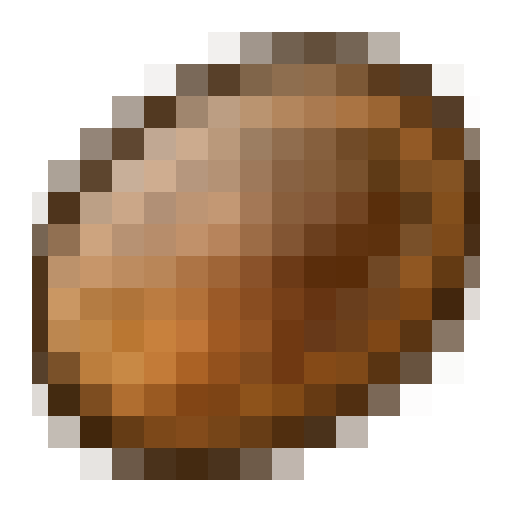
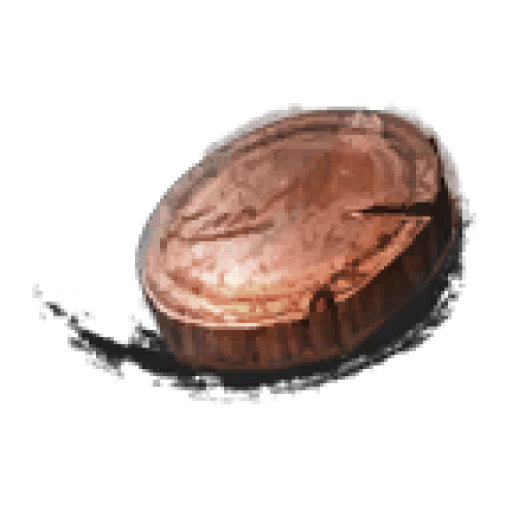
update coins with higher res image

diff --git a/app/src/main/java/xhsun/gw2app/steve/backend/util/wallet/ListAdapter.java b/app/src/main/java/xhsun/gw2app/steve/backend/util/wallet/ListAdapter.java
@@ -2,6 +2,7 @@ package xhsun.gw2app.steve.backend.util.wallet;
 
 import android.content.Context;
 import android.support.annotation.NonNull;
+import android.util.TypedValue;
 import android.view.LayoutInflater;
 import android.view.View;
 import android.view.ViewGroup;
@@ -101,11 +102,15 @@ public class ListAdapter extends ExpandableRecyclerAdapter<TotalWallet, Individu
 
 		private void parseCoins(TotalWallet wallet) {
 			long value = wallet.getValue();
+
+			image.setLayoutParams(getCopperLayout(6, 12, currency.getId(), view));
 			image.setImageResource(R.mipmap.ic_coin_copper);
+
 			currency.setText(String.valueOf(value % 100));
 			value = value / 100;
 			this.silver.setText(String.valueOf(value % 100));
 			this.gold.setText(String.valueOf(value / 100));
+
 			goldHolder.setVisibility(View.VISIBLE);
 			silverHolder.setVisibility(View.VISIBLE);
 		}
@@ -154,13 +159,28 @@ public class ListAdapter extends ExpandableRecyclerAdapter<TotalWallet, Individu
 
 		private void parseCoins(IndividualWallet wallet) {
 			long value = wallet.getValue();
+
+			image.setLayoutParams(getCopperLayout(7, 10, currency.getId(), view));
 			image.setImageResource(R.mipmap.ic_coin_copper);
+
 			currency.setText(String.valueOf(value % 100));
 			value = value / 100;
 			this.silver.setText(String.valueOf(value % 100));
 			this.gold.setText(String.valueOf(value / 100));
+
 			goldHolder.setVisibility(View.VISIBLE);
 			silverHolder.setVisibility(View.VISIBLE);
 		}
+	}
+
+	private RelativeLayout.LayoutParams getCopperLayout(int margin, int size, int id, View view) {
+		RelativeLayout.LayoutParams lp = new RelativeLayout.LayoutParams(getDiP(size, view), getDiP(size, view));
+		lp.topMargin = getDiP(margin, view);
+		lp.addRule(RelativeLayout.RIGHT_OF, id);
+		return lp;
+	}
+
+	private int getDiP(int value, View view) {
+		return (int) TypedValue.applyDimension(TypedValue.COMPLEX_UNIT_DIP, value, view.getResources().getDisplayMetrics());
 	}
 }
